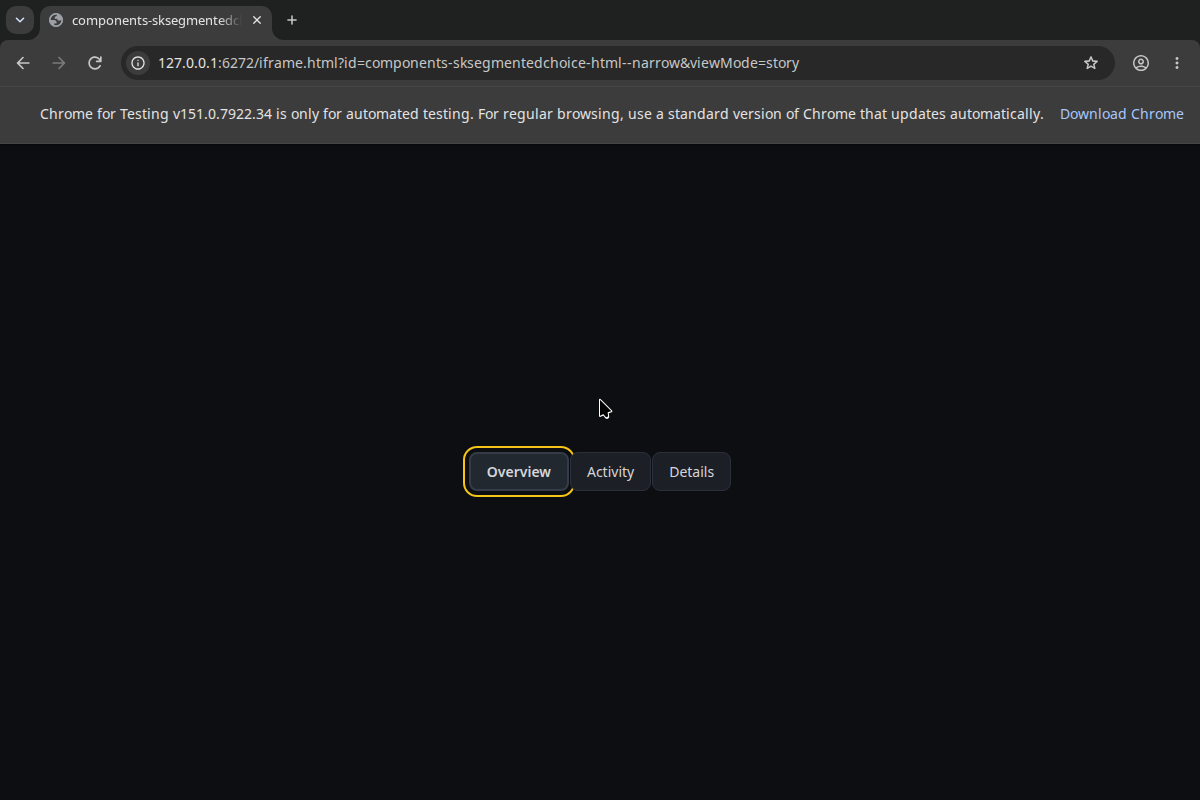
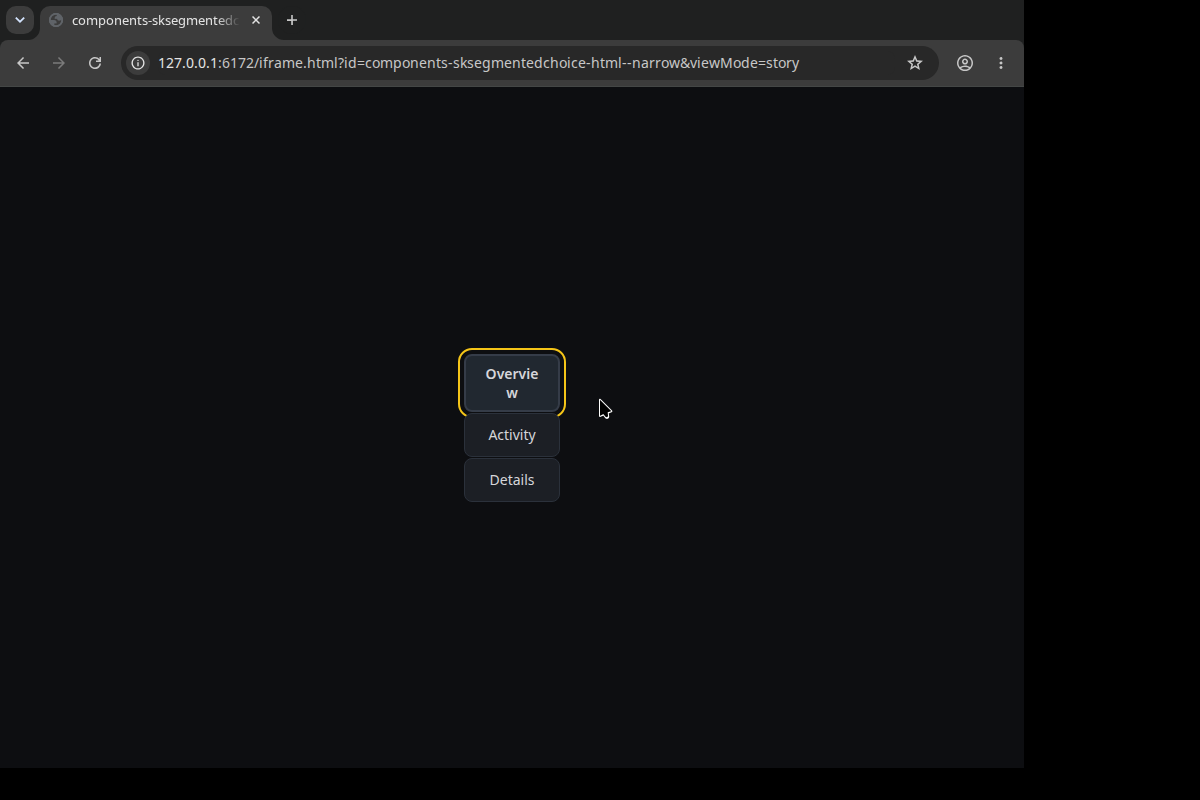
docs(styles): refresh wrapped narrow zoom evidence

Changed region(s): [[0.0, 0.0, 1.0, 0.1875], [0.37, 0.4375, 0.6167, 0.625], [0.0308, 0.0, 0.0617, 0.0312]]

diff --git a/docs/architecture/validation/issue-270-segmented-choice-zoom/README.md b/docs/architecture/validation/issue-270-segmented-choice-zoom/README.md
@@ -1,16 +1,18 @@
 # Issue #270 segmented-choice browser zoom evidence
 
 This evidence records actual Chrome page zoom for all thirteen required native
-segmented-choice stories. It was captured from commit
+segmented-choice stories. Twelve unchanged stories were captured from commit
 `2152c7544ac2435d39d82d57bf3dbfe4eee2e67a` (tree
 `62ebd799389d3f54e0283d705dd4521f770bad26`) after the CI-authored visual baselines
-were committed.
+were committed. The `narrow` story was refreshed after the wrap review fix from product
+commit `b9724983c721ba8e876fb07cac724904285b3d98` (tree
+`0e17137e763001fdb3739203caac70bcaeb5358f`).
 
 ## Environment and method
 
 - Fedora Linux 44, kernel `7.1.5-201.fc44.x86_64`, x86_64
 - Chrome for Testing `151.0.7922.34`, Playwright `1.62.1`, Storybook `10.6.0`
-- Production Storybook build served at `127.0.0.1` in a `1200 x 800` Xvfb screen
+- Production Storybook builds served at `127.0.0.1` in a `1200 x 800` Xvfb screen
 - X11/XTEST focused the real headed Chrome window and sent `Ctrl+0`, followed by five
   native `Ctrl+Shift+=` chords
 - FFmpeg captured the complete X11 screen, including browser chrome and its visible zoom
@@ -18,9 +20,11 @@ were committed.
 - No CSS zoom/transform, Playwright viewport or device-scale override, CDP emulation, or
   pinch/page-scale emulation was used
 
-The physical Chrome window stayed `1200 x 800`. Its CSS viewport changed from
-`1200 x 657` at 100% to `600 x 328` at 200%; `devicePixelRatio` changed from `1` to
-`2`, while `visualViewport.scale` remained `1`.
+For the original twelve-story capture, the physical Chrome window stayed `1200 x 800`.
+Its CSS viewport changed from `1200 x 657` at 100% to `600 x 328` at 200%. For the
+post-review `narrow` refresh, the real headed Chrome window stayed `1024 x 768`; its CSS
+viewport changed from `1024 x 681` to `512 x 340`. In both runs,
+`devicePixelRatio` changed from `1` to `2`, while `visualViewport.scale` remained `1`.
 
 At each zoom level the harness opened each built story directly, focused the first native
 enabled button by keyboard, measured the document, group, every button's content box, and
@@ -38,8 +42,8 @@ checks; this evidence isolates genuine browser zoom.
 
 ## 100% measurements and captures
 
-All rows used CSS viewport `1200 x 657`, DPR `1`, and visual viewport scale `1`.
-Client/scroll values are CSS pixels.
+Unless noted for `narrow`, rows used CSS viewport `1200 x 657`, DPR `1`, and visual
+viewport scale `1`. Client/scroll values are CSS pixels.
 
 | Story             | Capture SHA-256                                                    | Document client/scroll | Group client/scroll | Keyboard focus observation                       |
 | ----------------- | ------------------------------------------------------------------ | ---------------------: | ------------------: | ------------------------------------------------ |
@@ -52,15 +56,15 @@ Client/scroll values are CSS pixels.
[8 lines of base64/hex data omitted]
 
 ## 200% measurements and captures
 
-All rows used CSS viewport `600 x 328`, DPR `2`, and visual viewport scale `1`.
-Client/scroll values are CSS pixels.
+Unless noted for `narrow`, rows used CSS viewport `600 x 328`, DPR `2`, and visual
+viewport scale `1`. Client/scroll values are CSS pixels.
 
 | Story             | Capture SHA-256                                                    | Document client/scroll | Group client/scroll | Keyboard focus observation                       |
 | ----------------- | ------------------------------------------------------------------ | ---------------------: | ------------------: | ------------------------------------------------ |
@@ -73,10 +77,24 @@ Client/scroll values are CSS pixels.
[8 lines of base64/hex data omitted]
+
+## Post-review `narrow` refresh
+
+The refreshed story deliberately constrains the presentation frame so the three native
+buttons wrap onto separate rows. At 100%, their top coordinates were `266.5`, `325.5`,
+and `370.5` CSS pixels; at 200%, they were `96.25`, `155.25`, and `200.25`. At both zoom
+levels, button border-boxes measured `96 x 58`, `96 x 44`, and `96 x 44` CSS pixels. The
+document had no horizontal overflow, the group remained contained by its frame, no
+buttons overlapped or clipped, and the first button's 2px keyboard-focus outline with a
+4px offset remained visible and inside the document.
+
+The reviewer-owned measurement record is
+`narrow-metrics.json`, SHA-256
[1 lines of base64/hex data omitted]
 
 The tracked files are named `<story>-100-desktop.png` and
 `<story>-200-desktop.png`. The PR evidence comment pins the post-evidence exact delivery
